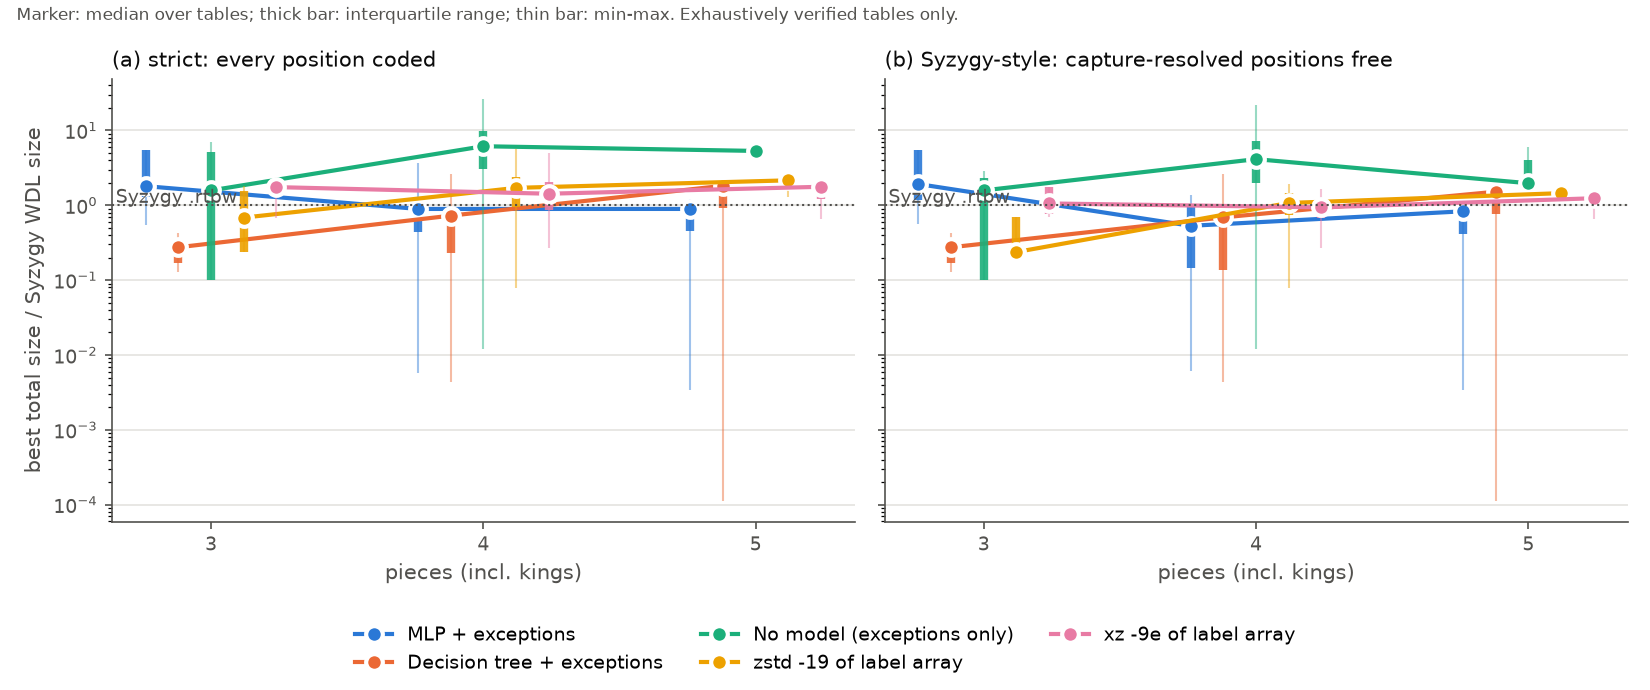
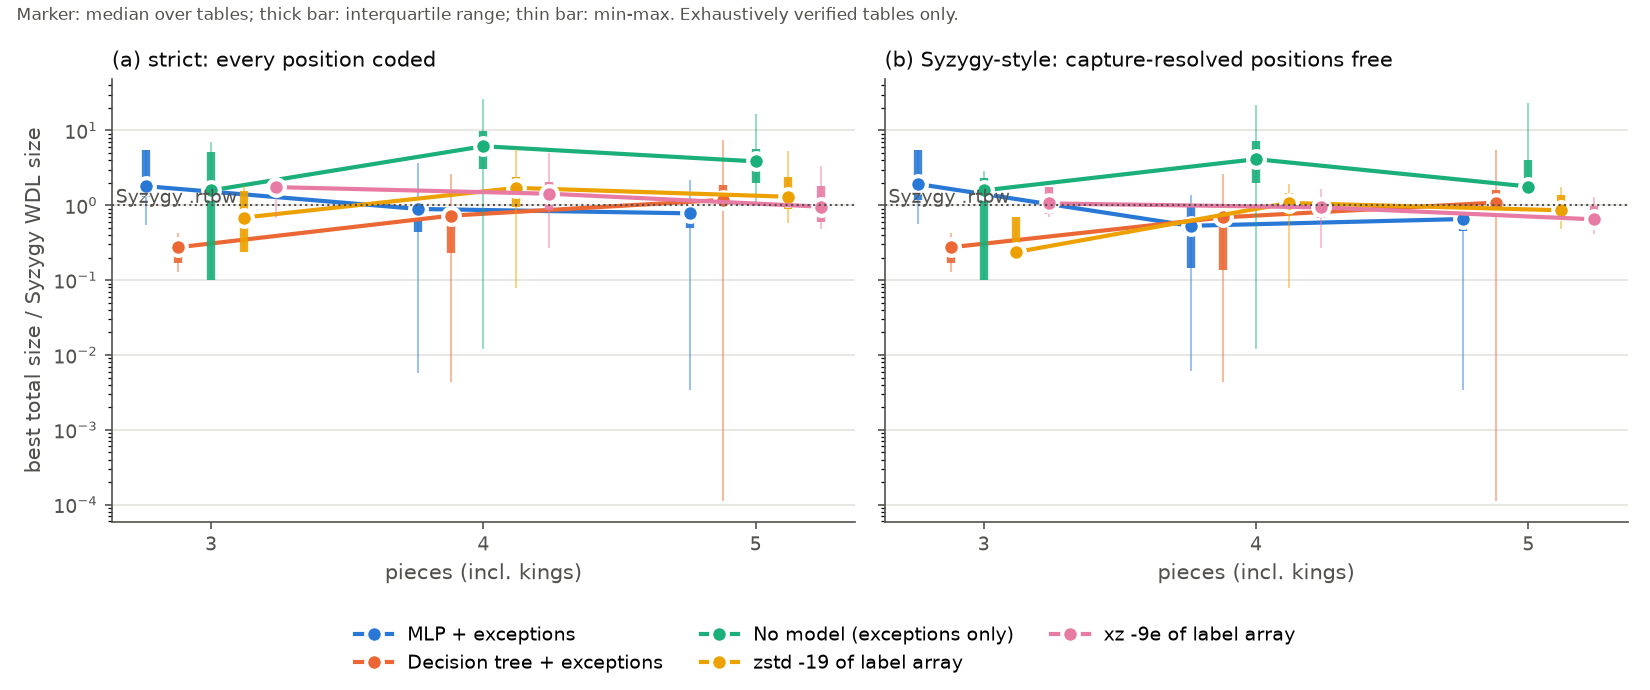
Update interim figures and summary
Claude-Session: https://claude.ai/code/session_01Cwe6rixVteNidhCXLwtfcx

Changed region(s): [[0.2782, 0.1826, 0.5255, 0.3348], [0.7418, 0.2435, 0.9891, 0.3348], [0.7727, 0.213, 0.8036, 0.2435]]

diff --git a/results/report.md b/results/report.md
@@ -8,8 +8,8 @@ Pooled = sum over the tables of that piece count; median = median of per-table r
 | 3 | b | 5 | 8.3 | 0.709 / 1.92 | 0.409 / 0.275 | 1.61 / 1.58 | 0.671 / 0.237 | 0.723 / 1.06 | yes |
 | 4 | a | 30 | 1,224.8 | 0.774 / 0.894 | 0.871 / 0.727 | 4.37 / 6.16 | 1.44 / 1.71 | 1.25 / 1.43 | yes |
 | 4 | b | 30 | 1,224.8 | 0.652 / 0.532 | 0.852 / 0.69 | 3.69 / 4.14 | 1.19 / 1.07 | 1.03 / 0.939 | yes |
-| 5 | a | 6 | 31,402.7 | 0.761 / 0.838 | 1.34 / 1.5 | 2.62 / 4.6 | 1.32 / 1.73 | 1.07 / 1.36 | yes |
-| 5 | b | 6 | 31,402.7 | 0.675 / 0.676 | 1.16 / 1.3 | 1.61 / 1.67 | 0.953 / 1.08 | 0.799 / 0.692 | yes |
+| 5 | a | 7 | 40,258.8 | 0.732 / 0.781 | 1.23 / 1.18 | 2.44 / 3.86 | 1.16 / 1.3 | 0.945 / 0.958 | yes |
+| 5 | b | 7 | 40,258.8 | 0.647 / 0.655 | 1.09 / 1.09 | 1.65 / 1.78 | 0.85 / 0.859 | 0.714 / 0.65 | yes |
 
 ## Per table (ratios to Syzygy)
 
@@ -55,7 +55,28 @@ Pooled = sum over the tables of that piece count; median = median of per-table r
 | KRBvKR | 152,620,510 | 1,987.6 | 1.21 | 1.9 | 1.9 | 1.05 | 1.71 | 1.3 | (256, [512, 256]) 4b, 366,853 p. | 0.1295 | yes |
 | KQBvKQ | 126,967,682 | 3,996.6 | 0.894 | 1.82 | 1.77 | 0.832 | 1.52 | 1.24 | (256, [512, 256]) 8b, 366,853 p. | 0.2307 | yes |
 | KBBvKN | 85,412,684 | 4,945.7 | 0.353 | 1.1 | 0.545 | 0.351 | 1.09 | 0.518 | (256, [512, 256]) 4b, 346,373 p. | 0.1675 | yes |
+| KPPvKR | 199,951,960 | 8,856.1 | 0.629 | 0.865 | 0.486 | 0.549 | 0.816 | 0.415 | (256, [512, 256]) 8b, 375,045 p. | 0.2281 | yes |
 | KQPvKQ | 404,512,069 | 19,925.4 | 0.781 | 1.18 | 0.958 | 0.696 | 1.01 | 0.734 | (256, [512, 256]) 8b, 395,525 p. | 0.3150 | yes |
+
+## 3-class labels (loss / draw / win, 50-move rule applied)
+
+| pieces | variant | tables | Syzygy total (KB) | mlp pooled / median | tree pooled / median | const pooled / median | xz9e pooled / median | all verified |
+|---|---|---:|---:|---|---|---|---|---|
+| 3 | a | 5 | 8.3 | 0.691 / 1.8 | 0.409 / 0.275 | 2.15 / 1.96 | 0.775 / 1.75 | yes |
+| 3 | b | 5 | 8.3 | 0.709 / 1.92 | 0.409 / 0.275 | 1.96 / 1.96 | 0.723 / 1.06 | yes |
+| 4 | a | 2 | 32.7 | 1.04 / 1.04 | 0.637 / 0.643 | 8.09 / 8.31 | 2.15 / 2.27 | yes |
+| 4 | b | 2 | 32.7 | 0.933 / 0.927 | 0.635 / 0.642 | 5.4 / 4.67 | 0.958 / 0.97 | yes |
+
+
+| table | positions | Syzygy KB | MLP (a) | tree (a) | xz (a) | MLP (b) | tree (b) | xz (b) | MLP (a) choice | MLP bits/pos (a) | verified |
+|---|---:|---:|---:|---:|---:|---:|---:|---:|---|---:|---|
+| KBvK | 52,234 | 0.1 | 5.51 | 0.275 | 1.75 | 5.51 | 0.275 | 1.75 | (4, []) 4b, 989 p. | 0.0675 | yes |
+| KNvK | 53,806 | 0.1 | 5.56 | 0.275 | 1.75 | 5.54 | 0.275 | 1.75 | (4, []) 4b, 989 p. | 0.0662 | yes |
+| KRvK | 50,015 | 0.2 | 1.8 | 0.168 | 2.23 | 1.92 | 0.168 | 0.769 | (4, []) 4b, 989 p. | 0.0600 | yes |
+| KQvK | 46,137 | 0.3 | 1.29 | 0.129 | 1.91 | 1.19 | 0.129 | 1.06 | (4, []) 4b, 989 p. | 0.0609 | yes |
+| KPvK | 165,676 | 7.6 | 0.542 | 0.428 | 0.676 | 0.562 | 0.428 | 0.689 | (8, []) 4b, 2,869 p. | 0.2046 | yes |
+| KRvKR | 1,347,906 | 12.6 | 1.01 | 0.672 | 2.77 | 0.901 | 0.672 | 1.02 | (32, [32]) 4b, 11,493 p. | 0.0779 | yes |
+| KQvKR | 2,467,122 | 20.0 | 1.06 | 0.614 | 1.77 | 0.954 | 0.611 | 0.92 | (16, [16]) 8b, 5,493 p. | 0.0704 | yes |
 
 ## Ablation: no move-generator features
 
@@ -63,8 +84,10 @@ Pooled = sum over the tables of that piece count; median = median of per-table r
 |---|---|---:|---:|---|---|---|---|---|
 | 3 | a | 3 | 8.1 | 0.635 / 1.65 | 0.431 / 0.433 | 1.83 / 5.19 | 0.756 / 1.91 | yes |
 | 3 | b | 3 | 8.1 | 0.63 / 1.67 | 0.431 / 0.433 | 1.64 / 2.3 | 0.703 / 0.769 | yes |
-| 4 | a | 4 | 209.6 | 1.07 / 1.68 | 1.45 / 2.11 | 4.59 / 5.67 | 1.18 / 1.43 | yes |
-| 4 | b | 4 | 209.6 | 0.822 / 1.42 | 1.17 / 1.36 | 5.35 / 5.95 | 0.964 / 0.939 | yes |
+| 4 | a | 5 | 449.1 | 0.774 / 1.64 | 0.989 / 1.36 | 3.15 / 3.97 | 0.903 / 1.09 | yes |
+| 4 | b | 5 | 449.1 | 0.632 / 1.2 | 0.85 / 1.36 | 3.5 / 5.1 | 0.801 / 0.92 | yes |
+| 5 | a | 2 | 547.4 | 2.07 / 2.07 | 6.96 / 6.96 | 11.4 / 11.4 | 2.02 / 2.02 | yes |
+| 5 | b | 2 | 547.4 | 1.39 / 1.39 | 2.61 / 2.61 | 14.5 / 14.6 | 0.633 / 0.633 | yes |
 
 
 | table | positions | Syzygy KB | MLP (a) | tree (a) | xz (a) | MLP (b) | tree (b) | xz (b) | MLP (a) choice | MLP bits/pos (a) | verified |
@@ -76,3 +99,6 @@ Pooled = sum over the tables of that piece count; median = median of per-table r
 | KBNvK | 3,067,466 | 7.5 | 2.64 | 3.15 | 2.06 | 1.69 | 2.8 | 1.34 | (64, [64]) 4b, 25,029 p. | 0.0526 | yes |
 | KQvKR | 2,467,122 | 20.0 | 1.73 | 2.87 | 1.77 | 1.2 | 1.36 | 0.92 | (64, [128, 64]) 4b, 37,445 p. | 0.1147 | yes |
 | KRvKP | 9,031,524 | 175.2 | 0.901 | 1.22 | 1.09 | 0.709 | 1.07 | 0.958 | (128, [256, 128]) 4b, 121,989 p. | 0.1431 | yes |
+| KPvKP | 3,718,044 | 239.6 | 0.519 | 0.584 | 0.659 | 0.466 | 0.567 | 0.659 | (128, [256, 128]) 4b, 136,325 p. | 0.2741 | yes |
+| KQRvKR | 134,700,370 | 273.3 | 2.06 | 12.1 | 3.39 | 0.701 | 3.4 | 0.616 | (256, [512, 256]) 4b, 366,853 p. | 0.0343 | yes |
+| KQRBvK | 148,512,767 | 274.1 | 2.07 | 1.83 | 0.65 | 2.07 | 1.83 | 0.65 | (8, []) 8b, 3,253 p. | 0.0313 | yes |
